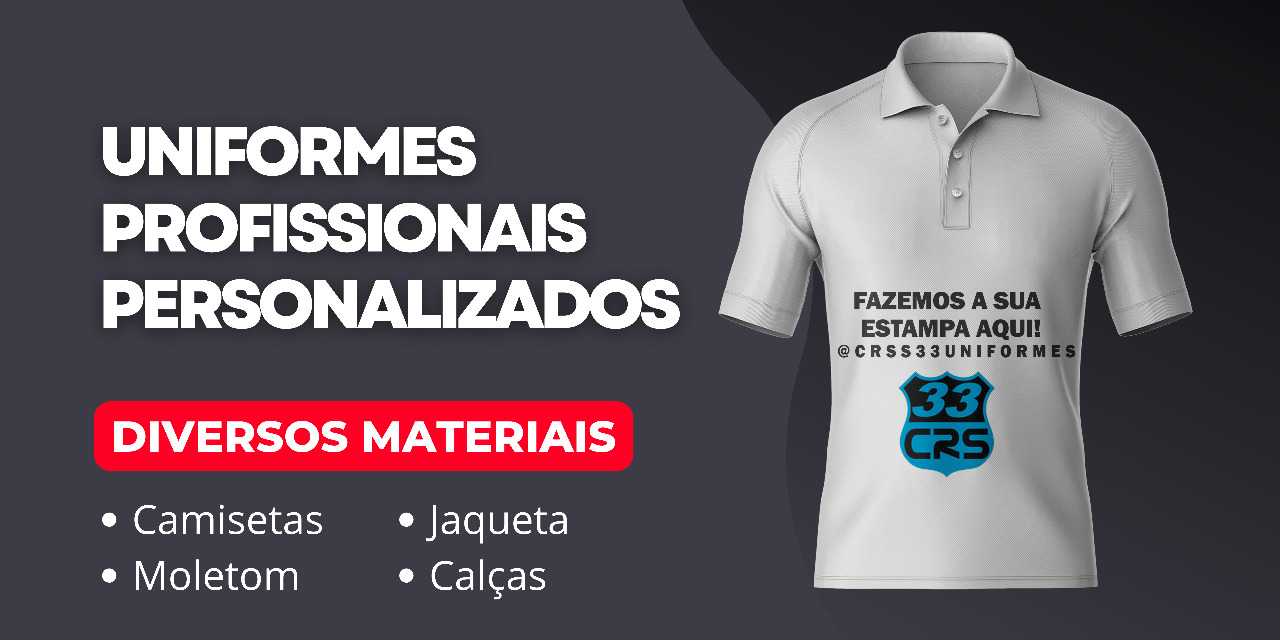
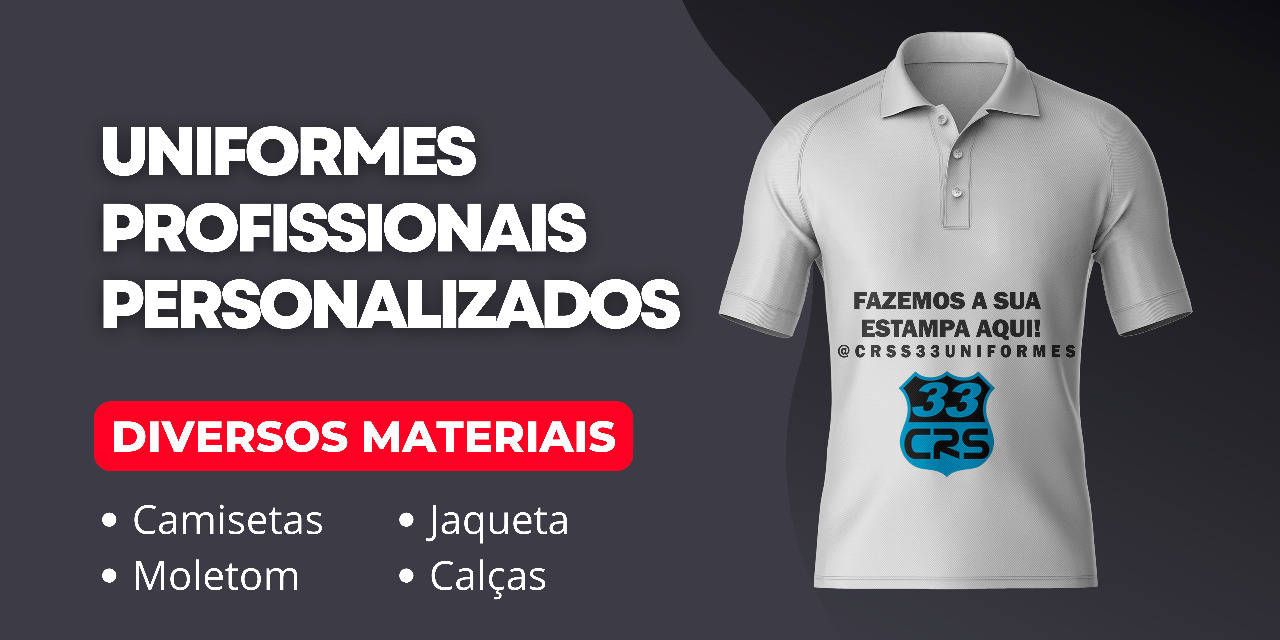
otimização das imagens

diff --git a/index.html b/index.html
@@ -31,21 +31,26 @@
 
     <header>
       <div>
-        <img class="logo-header" src="img/logo.png" alt="logo">
+        <picture>
+          <img class="logo-header" src="img/logo-450.png" alt="logo">
+          <source media="max-width: 767px" srcset="banner_04.png" type="image/png"></source>
+        </picture>
+        
         <p class="sublogo">Estampar no peito, o que levamos no coração.</p>
       </div>
     </header>
 
       
       <menu class="nav-header">
-        <img class="logo-nav" src="img/logo.png" alt="logo">
+        
+        <img class="logo-nav" src="img/logo-100.png" alt="logo">
         <ul type="none" class="nav-topics">
           <li><a href="#list-services">Serviços</a></li>
           <li><a href="#gallery">Ideias</a></li>
           <li><a href="#contact">Contato</a></li>
         </ul>
 
-        <img id="menu-burguer" src="img/menu_FILL0_wght400_GRAD0_opsz48.svg" alt="" srcset="" onclick="test()">
+        <img id="menu-burguer" src="img/menu_FILL0_wght400_GRAD0_opsz48.svg" alt="" srcset="" onclick="menuMobile()">
         
       </menu>
      <div id="mobile-menu">
@@ -58,7 +63,7 @@
 
     
 
-    <body>
+    <main>
       <section id="banners-products">
         <div id="carouselExampleFade" class="carousel slide carousel-fade" data-bs-ride="carousel">
           <div class="carousel-inner">
@@ -72,7 +77,7 @@
               <img src="img/banner_03.png" class="d-block w-100" alt="...">
             </div>
             <div class="carousel-item">
-              <img src="img/portifolio/p4.jpg" class="d-block w-100" alt="...">
+              <img src="img/banner_04.png" class="d-block w-100" alt="...">
             </div>
           </div>
           <button class="carousel-control-prev" type="button" data-bs-target="#carouselExampleFade" data-bs-slide="prev">
@@ -87,15 +92,13 @@
       </section>
 
       <section id="presentation">
-        <!--<div><img class="presentation-img" src="img/budka-damdinsuren-IrQmtib-ER4-unsplash.jpg" alt=""></div>-->
+
         <div class="text-presentation">
           <h3>CRS 33</h3>
+          
           <p>Uma empresa o como objetivo atender o cliente com produtos do simples ao sofisticado.</p>
           <p>Realizamos serviços personalizados de sublimação, serigrafia e bordado, para acessórios e vestuário (casual e profissional), em uma diverdade de materiais.</p>
           <p>Estamos sempre dispostos à ajudá-lo, compreender sua necessidade e entregar com a melhor qualidade.</p>
-
-          
-          
         </div>
       </section>
 
@@ -166,15 +169,15 @@
       <section id="gallery">
         <h3>Ideias de personalização</h3>
         <div class="gallery-square">
-          <div class="gallery-frame"><img class="gallery-ideia" src="img/portifolio/tag30.jpg" alt="" srcset=""></div>
-          <div class="gallery-frame"><img class="gallery-ideia" src="img/portifolio/p2.jpg" alt="" srcset=""></div>
-          <div class="gallery-frame"><img class="gallery-ideia" src="img/portifolio/p3.jpg" alt="" srcset=""></div>
-          <div class="gallery-frame"><img class="gallery-ideia" src="img/portifolio/p5.jpg" alt="" srcset=""></div>
-          <div class="gallery-frame"><img class="gallery-ideia" src="img/portifolio/p6.jpg" alt="" srcset=""></div>
-          <div class="gallery-frame"><img class="gallery-ideia" src="img/portifolio/p7.jpg" alt="" srcset=""></div>
-          <div class="gallery-frame"><img class="gallery-ideia" src="img/portifolio/p8.jpg" alt="" srcset=""></div>
-          <div class="gallery-frame"><img class="gallery-ideia" src="img/portifolio/p9.jpg" alt="" srcset=""></div>
-          <div class="gallery-frame"><img class="gallery-ideia" src="img/portifolio/p10.jpg" alt="" srcset=""></div>
+          <div class="gallery-frame"><img class="gallery-ideia" src="img/ideias/i1.jpg" alt="" srcset=""></div>
+          <div class="gallery-frame"><img class="gallery-ideia" src="img/ideias/i2.jpg" alt="" srcset=""></div>
+          <div class="gallery-frame"><img class="gallery-ideia" src="img/ideias/i3.jpg" alt="" srcset=""></div>
+          <div class="gallery-frame"><img class="gallery-ideia" src="img/ideias/i4.jpg" alt="" srcset=""></div>
+          <div class="gallery-frame"><img class="gallery-ideia" src="img/ideias/i5.jpg" alt="" srcset=""></div>
+          <div class="gallery-frame"><img class="gallery-ideia" src="img/ideias/i6.jpg" alt="" srcset=""></div>
+          <div class="gallery-frame"><img class="gallery-ideia" src="img/ideias/i7.jpg" alt="" srcset=""></div>
+          <div class="gallery-frame"><img class="gallery-ideia" src="img/ideias/i8.jpg" alt="" srcset=""></div>
+          <div class="gallery-frame"><img class="gallery-ideia" src="img/ideias/i9.jpg" alt="" srcset=""></div>
         </div>
         
       </section>
@@ -200,11 +203,11 @@
         <p>Desenvolvido por: <a href="https://github.com/guilhermesetim" rel="external" target="_blank">Guilherme Setim</a></p>
       </footer>
 
-      <script src="script.js"></script>
-    </body>
+      
+    </main>
     
     
-
+    <script src="script.js"></script>
     
 </body>
 </html>

diff --git a/style.css b/style.css
@@ -44,7 +44,7 @@
 /*header*/
 header{
     height: 100vh;
-    background: url('img/capa04.jpg') center right no-repeat;
+    background: url('img/capa.jpg') center right no-repeat;
     background-size: cover;
     
 }
@@ -130,11 +130,7 @@ header > div{
     padding: 50px 50px 20px;
 
 }
-.presentation-img{
-    height: 600px;
-    width: 500px;
-    box-shadow: 0px 0px 7px rgba(0, 0, 0, 0.623);
-}
+
 
 .text-presentation{
     font-size: 1.8em;
@@ -143,6 +139,9 @@ header > div{
 .text-presentation > h3{
     font-size: 3em;
     margin-bottom: 20px;
+}
+.text-presentation > p{
+    text-indent: 2em;
 }
 
 /* montage */
@@ -212,47 +211,47 @@ header > div{
 }
 
 .tag-camiseta{
-    background: gray url(img/tag01.jpg) center center no-repeat;
+    background: gray url(img/tags/tag01.jpg) center center no-repeat;
     background-size: cover;
     background-attachment: inherit;
 }
 .tag-polo{
-    background:  url(img/tag02.png) right top no-repeat;
+    background:  url(img/tags/tag02.jpg) right top no-repeat;
     background-size: cover;
     background-attachment: inherit;
 }
 .tag-social{
-    background: gray url(img/tag03.png) center center no-repeat;
+    background: gray url(img/tags/tag03.jpg) center center no-repeat;
     background-size: cover;
     background-attachment: inherit;
 }
 .tag-calca{
-    background: gray url(img/tag05.png) center bottom no-repeat;
+    background: gray url(img/tags/tag04.jpg) center bottom no-repeat;
     background-size: cover;
     background-attachment: inherit;
 }
 .tag-moletom{
-    background: gray url(img/tag06.png) center center no-repeat;
+    background: gray url(img/tags/tag05.jpg) center center no-repeat;
     background-size: cover;
     background-attachment: inherit;
 }
 .tag-bone{
-    background: gray url(img/tag04.png) center center no-repeat;
+    background: gray url(img/tags/tag06.jpg) center center no-repeat;
     background-size: cover;
     background-attachment: inherit;
 }
 .tag-jaqueta{
-    background: gray url(img/tag07.png) center top no-repeat;
+    background: gray url(img/tags/tag07.jpg) center top no-repeat;
     background-size: cover;
     background-attachment: inherit;
 }
 .tag-sueter{
-    background: gray url(img/tag08.png) center top no-repeat;
+    background: gray url(img/tags/tag08.jpg) center top no-repeat;
     background-size: cover;
     background-attachment: inherit;
 }
 .graf{
-    background: gray url(img/tag30.jpg) center bottom no-repeat;
+    background: gray url(img/tags/tag-grafica.jpg) center bottom no-repeat;
     background-size: cover;
     background-attachment: fixed;
 }
@@ -293,7 +292,7 @@ header > div{
 /* Contact */
 
 .contact {
-    background: url('img/contato04.jpg') center center no-repeat;
+    background: url('img/contato.jpg') center center no-repeat;
     background-size: cover;
     background-attachment: fixed;
     display: flex;

diff --git a/script.js b/script.js
@@ -1,6 +1,6 @@
-function test() {
+function menuMobile() {
     let viewAtual = document.querySelector('#mobile-menu').style.display
-    
+
     if(viewAtual == 'block'){
         document.querySelector('#mobile-menu').style.display = 'none'
     }

diff --git a/media-query.css b/media-query.css
@@ -24,6 +24,10 @@
         margin-top: 20px;
         text-shadow: 1px 1px 2px rgba(0, 0, 0, 0.63);
     }
+    /*  Banner  */
+    #banners-products {
+        display: none;
+    }
 
     /* Menu */
     .nav-heards {
